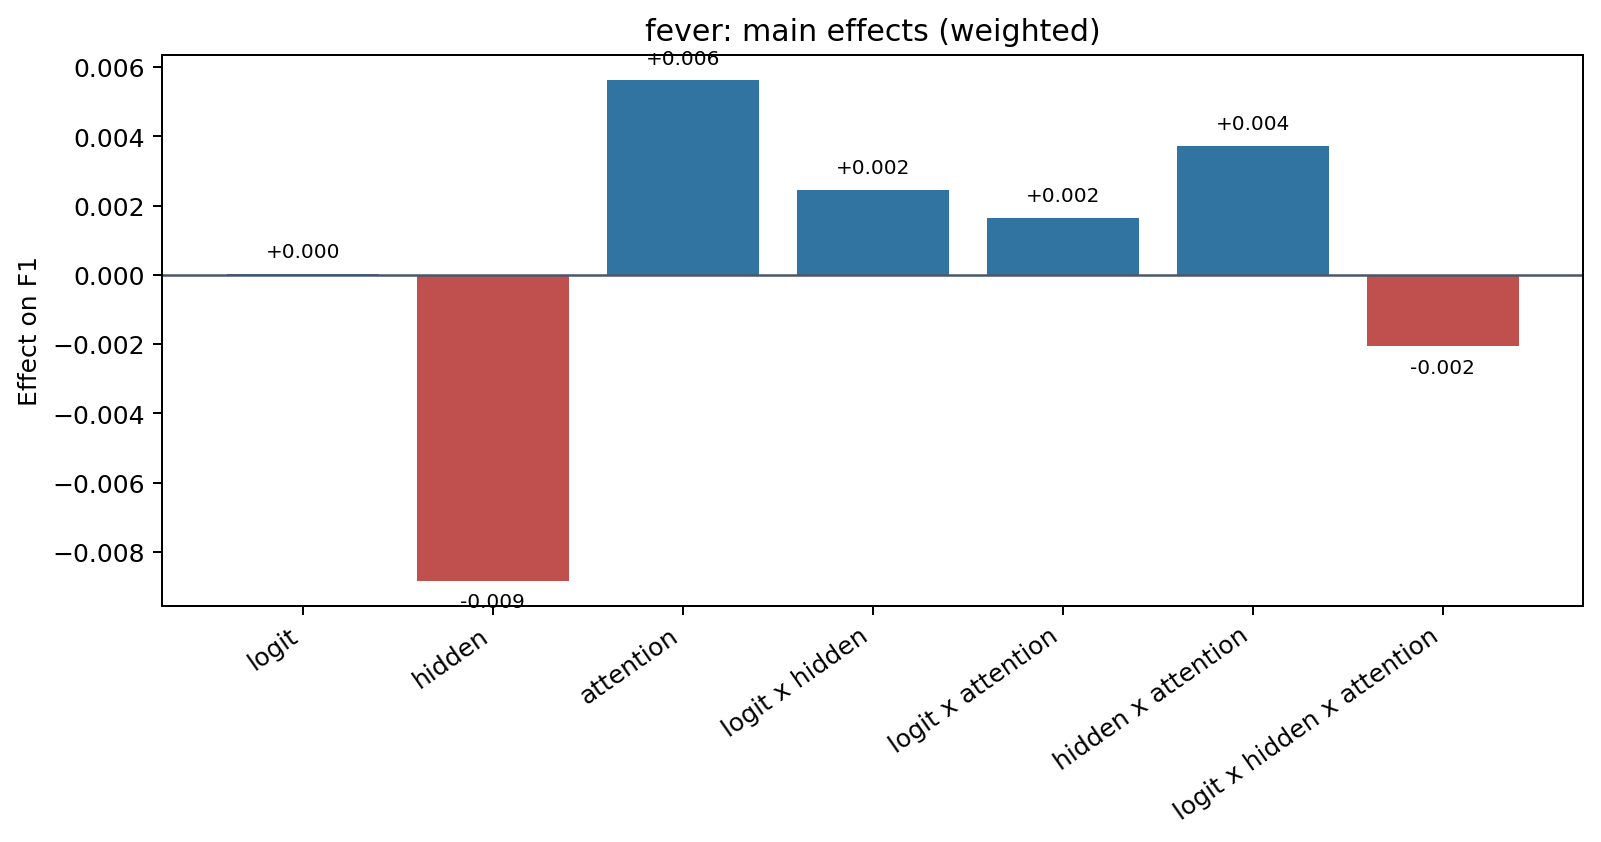
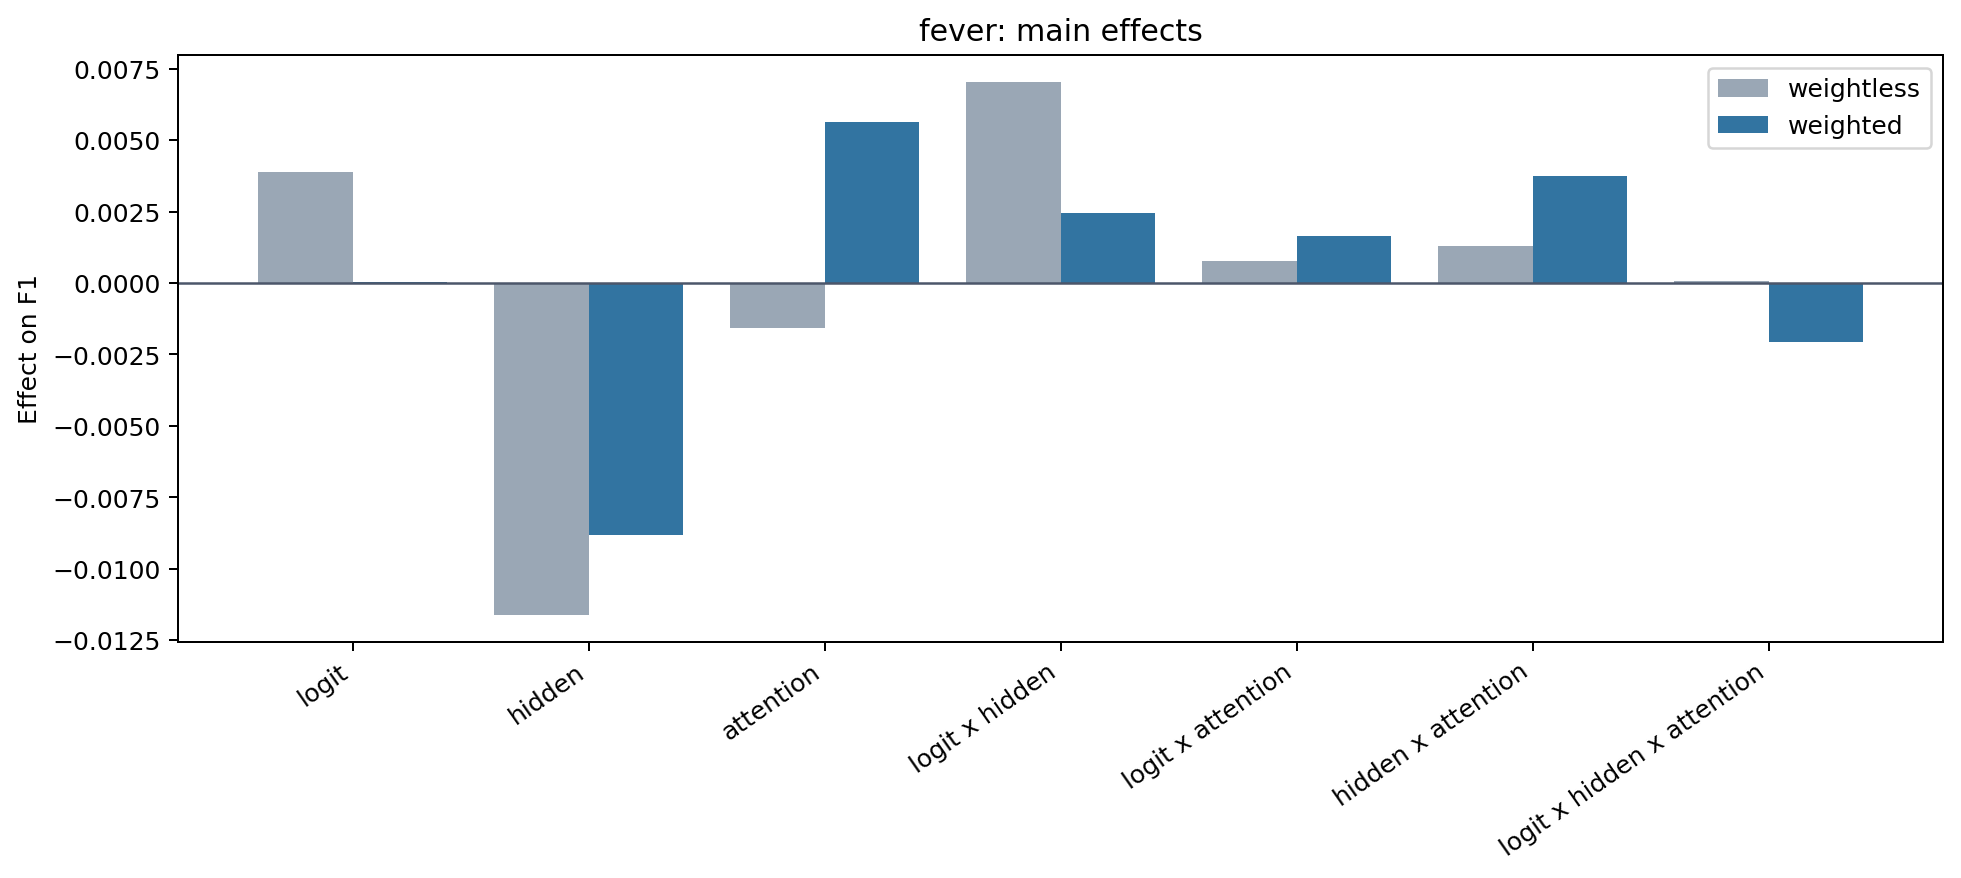
feat: grouped weightless/weighted bars for main-effect figures
Show both sweeps' factorial effect estimates side by side per effect,
with a zero baseline and auto-scaled axis for the signed values, so the
weighting shift in each effect is readable directly. Generalize the
grouped-bar helper with a signed mode reused by the F1 charts.

diff --git a/scripts/07_compare_weighting.py b/scripts/07_compare_weighting.py
@@ -152,27 +152,36 @@ def write_f1_condition_bars(comparison: pd.DataFrame, out_dir: pathlib.Path) -> 
 def write_main_effect_change_bars(
     weightless_full: pd.DataFrame, weighted_full: pd.DataFrame, out_dir: pathlib.Path
 ) -> dict[str, pathlib.Path]:
-    """Per dataset, signed bars of the weighted sweep's factorial effect estimates."""
+    """Per dataset, grouped weightless-vs-weighted factorial effect estimates."""
     figures = {}
     datasets = _ordered(weighted_full["dataset"].unique(), DATASET_ORDER)
     for dataset in datasets:
-        effects = _weighted_effects(weighted_full, dataset)
+        effects = _effect_pair(weightless_full, weighted_full, dataset)
         if effects is None:
             continue
         path = out_dir / f"delta_effects_{dataset}.png"
-        _save_signed_bars(
-            list(effects["effect"]), list(effects["estimate"]), f"{dataset}: main effects (weighted)", "Effect on F1", path
+        _save_grouped_bars(
+            list(effects["effect"]),
+            list(effects["estimate_wl"]),
+            list(effects["estimate_w"]),
+            f"{dataset}: main effects",
+            "Effect on F1",
+            path,
+            signed=True,
         )
         figures[dataset] = path
     return figures
 
 
-def _weighted_effects(weighted_full: pd.DataFrame, dataset: str) -> pd.DataFrame | None:
-    """Weighted-sweep factorial effect estimates for one dataset, or None if incomplete."""
+def _effect_pair(weightless_full: pd.DataFrame, weighted_full: pd.DataFrame, dataset: str) -> pd.DataFrame | None:
+    """Weightless and weighted factorial effect estimates aligned per effect, or None if incomplete."""
+    weightless = _valid_dataset_runs(weightless_full, dataset)
     weighted = _valid_dataset_runs(weighted_full, dataset)
-    if weighted is None:
+    if weightless is None or weighted is None:
         return None
-    return effects_table(weighted, "test_macro_f1")[["effect", "estimate"]]
+    wl_effects = effects_table(weightless, "test_macro_f1")
+    w_effects = effects_table(weighted, "test_macro_f1")
+    return wl_effects.merge(w_effects, on=["effect", "kind"], suffixes=("_wl", "_w"))
 
 
 def _valid_dataset_runs(full: pd.DataFrame, dataset: str) -> pd.DataFrame | None:
@@ -225,8 +234,14 @@ def _save_grouped_bars(
     title: str,
     ylabel: str,
     path: pathlib.Path,
+    *,
+    signed: bool = False,
 ) -> pathlib.Path:
-    """Save side-by-side weightless/weighted bars so the before/after gap is visible."""
+    """Save side-by-side weightless/weighted bars so the before/after gap is visible.
+
+    ``signed=True`` draws a zero baseline and auto-scales for values that cross
+    zero (factorial effects); otherwise the axis is pinned to the [0, 1] F1 range.
+    """
     path.parent.mkdir(parents=True, exist_ok=True)
     positions = range(len(labels))
     width = 0.4
@@ -235,7 +250,10 @@ def _save_grouped_bars(
     ax.bar([p + width / 2 for p in positions], weighted, width, label="weighted", color="#3274a1")
     ax.set_title(title)
     ax.set_ylabel(ylabel)
-    ax.set_ylim(0.0, 1.0)
+    if signed:
+        ax.axhline(0.0, color="#4c566a", linewidth=1.0)
+    else:
+        ax.set_ylim(0.0, 1.0)
     ax.set_xticks(list(positions))
     ax.set_xticklabels(labels, rotation=35, ha="right")
     ax.legend()
@@ -349,7 +367,7 @@ def _dataset_section(
         lines.append(_dataset_row(condition, indexed.loc[condition]))
     lines.append("")
     lines += _dataset_figure(f1_bar, "F1 by condition: weightless vs weighted")
-    lines += _dataset_figure(effect_bar, "main effects (weighted)")
+    lines += _dataset_figure(effect_bar, "main effects: weightless vs weighted")
     return lines
 
 

diff --git a/comparison/COMPARISON.md b/comparison/COMPARISON.md
@@ -61,7 +61,7 @@ ECE warm is **worse** (more miscalibrated).
 
 ![F1 by condition: weightless vs weighted](figures/delta_f1_conditions_davidson.png)
 
-![main effects (weighted)](figures/delta_effects_davidson.png)
+![main effects: weightless vs weighted](figures/delta_effects_davidson.png)
 
 ## `dynahate`
 
@@ -78,7 +78,7 @@ ECE warm is **worse** (more miscalibrated).
 
 ![F1 by condition: weightless vs weighted](figures/delta_f1_conditions_dynahate.png)
 
-![main effects (weighted)](figures/delta_effects_dynahate.png)
+![main effects: weightless vs weighted](figures/delta_effects_dynahate.png)
 
 ## `hateval`
 
@@ -95,7 +95,7 @@ ECE warm is **worse** (more miscalibrated).
 
 ![F1 by condition: weightless vs weighted](figures/delta_f1_conditions_hateval.png)
 
-![main effects (weighted)](figures/delta_effects_hateval.png)
+![main effects: weightless vs weighted](figures/delta_effects_hateval.png)
 
 ## `anli`
 
@@ -112,7 +112,7 @@ ECE warm is **worse** (more miscalibrated).
 
 ![F1 by condition: weightless vs weighted](figures/delta_f1_conditions_anli.png)
 
-![main effects (weighted)](figures/delta_effects_anli.png)
+![main effects: weightless vs weighted](figures/delta_effects_anli.png)
 
 ## `fever`
 
@@ -129,7 +129,7 @@ ECE warm is **worse** (more miscalibrated).
 
 ![F1 by condition: weightless vs weighted](figures/delta_f1_conditions_fever.png)
 
-![main effects (weighted)](figures/delta_effects_fever.png)
+![main effects: weightless vs weighted](figures/delta_effects_fever.png)
 
 ## `imdb`
 
@@ -146,7 +146,7 @@ ECE warm is **worse** (more miscalibrated).
 
 ![F1 by condition: weightless vs weighted](figures/delta_f1_conditions_imdb.png)
 
-![main effects (weighted)](figures/delta_effects_imdb.png)
+![main effects: weightless vs weighted](figures/delta_effects_imdb.png)
 
 ## `tweet_eval-sentiment`
 
@@ -163,7 +163,7 @@ ECE warm is **worse** (more miscalibrated).
 
 ![F1 by condition: weightless vs weighted](figures/delta_f1_conditions_tweet_eval-sentiment.png)
 
-![main effects (weighted)](figures/delta_effects_tweet_eval-sentiment.png)
+![main effects: weightless vs weighted](figures/delta_effects_tweet_eval-sentiment.png)
 
 ## `vardial`
 
@@ -180,4 +180,4 @@ ECE warm is **worse** (more miscalibrated).
 
 ![F1 by condition: weightless vs weighted](figures/delta_f1_conditions_vardial.png)
 
-![main effects (weighted)](figures/delta_effects_vardial.png)
+![main effects: weightless vs weighted](figures/delta_effects_vardial.png)
